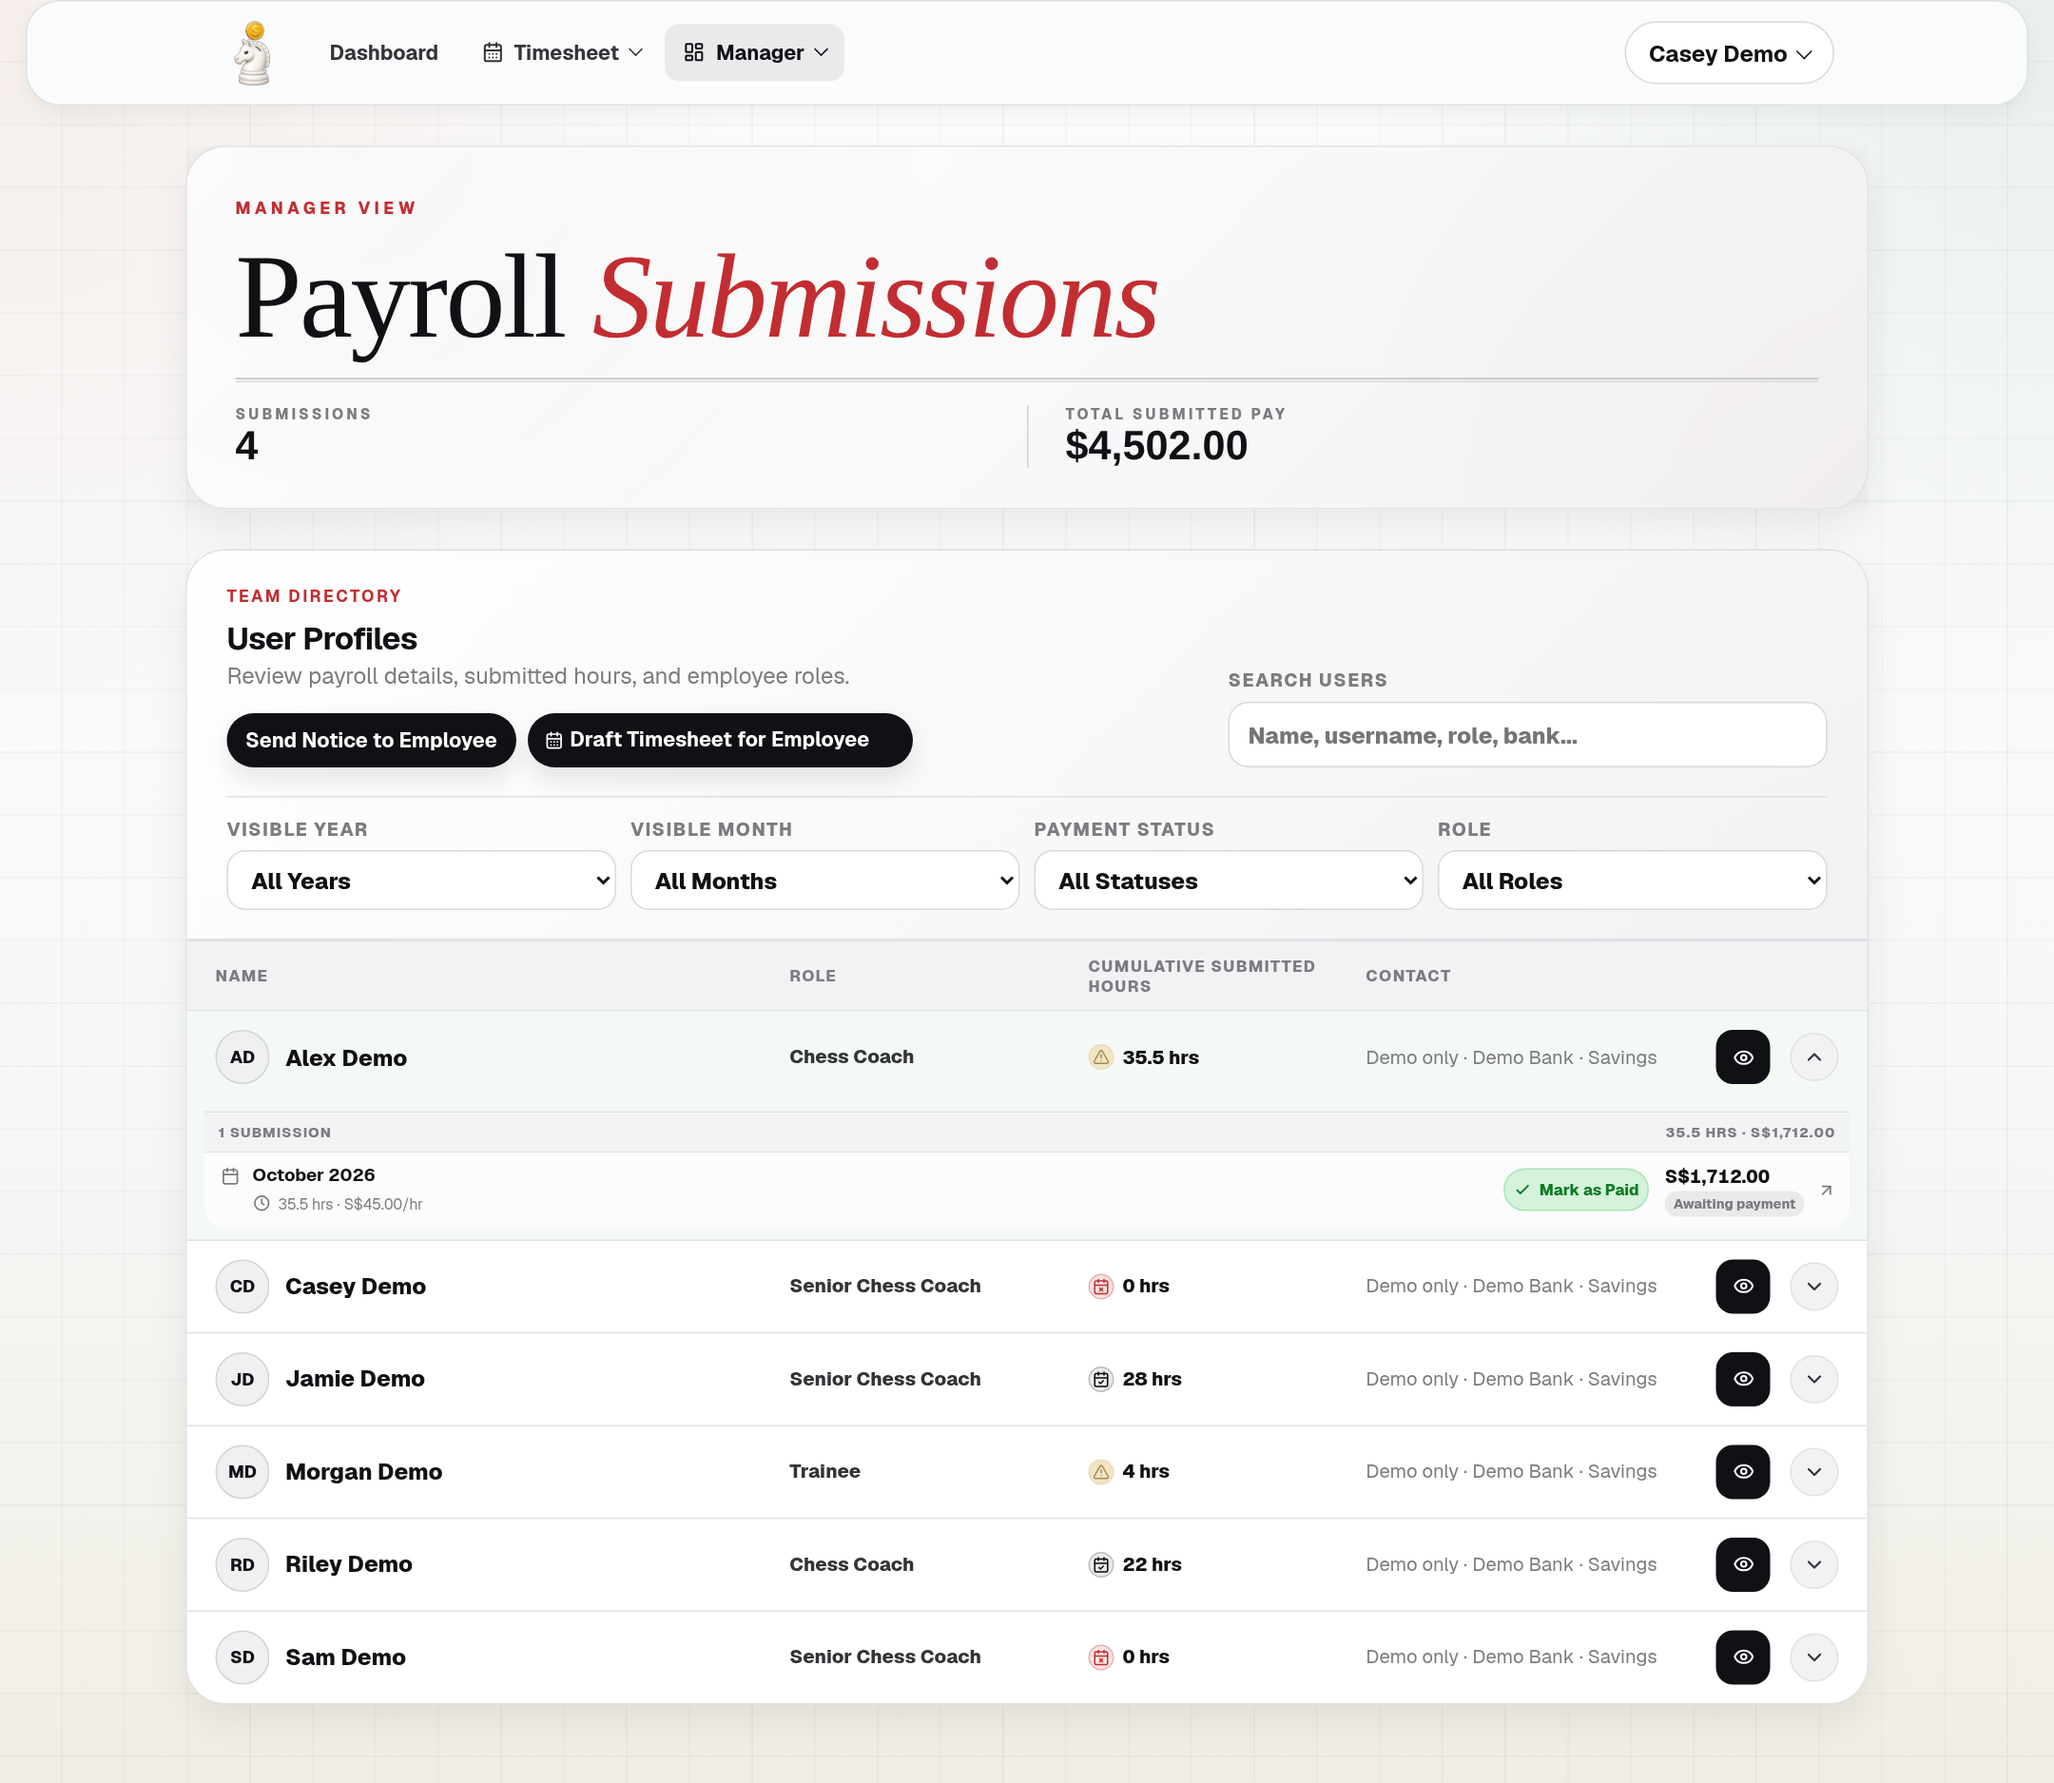
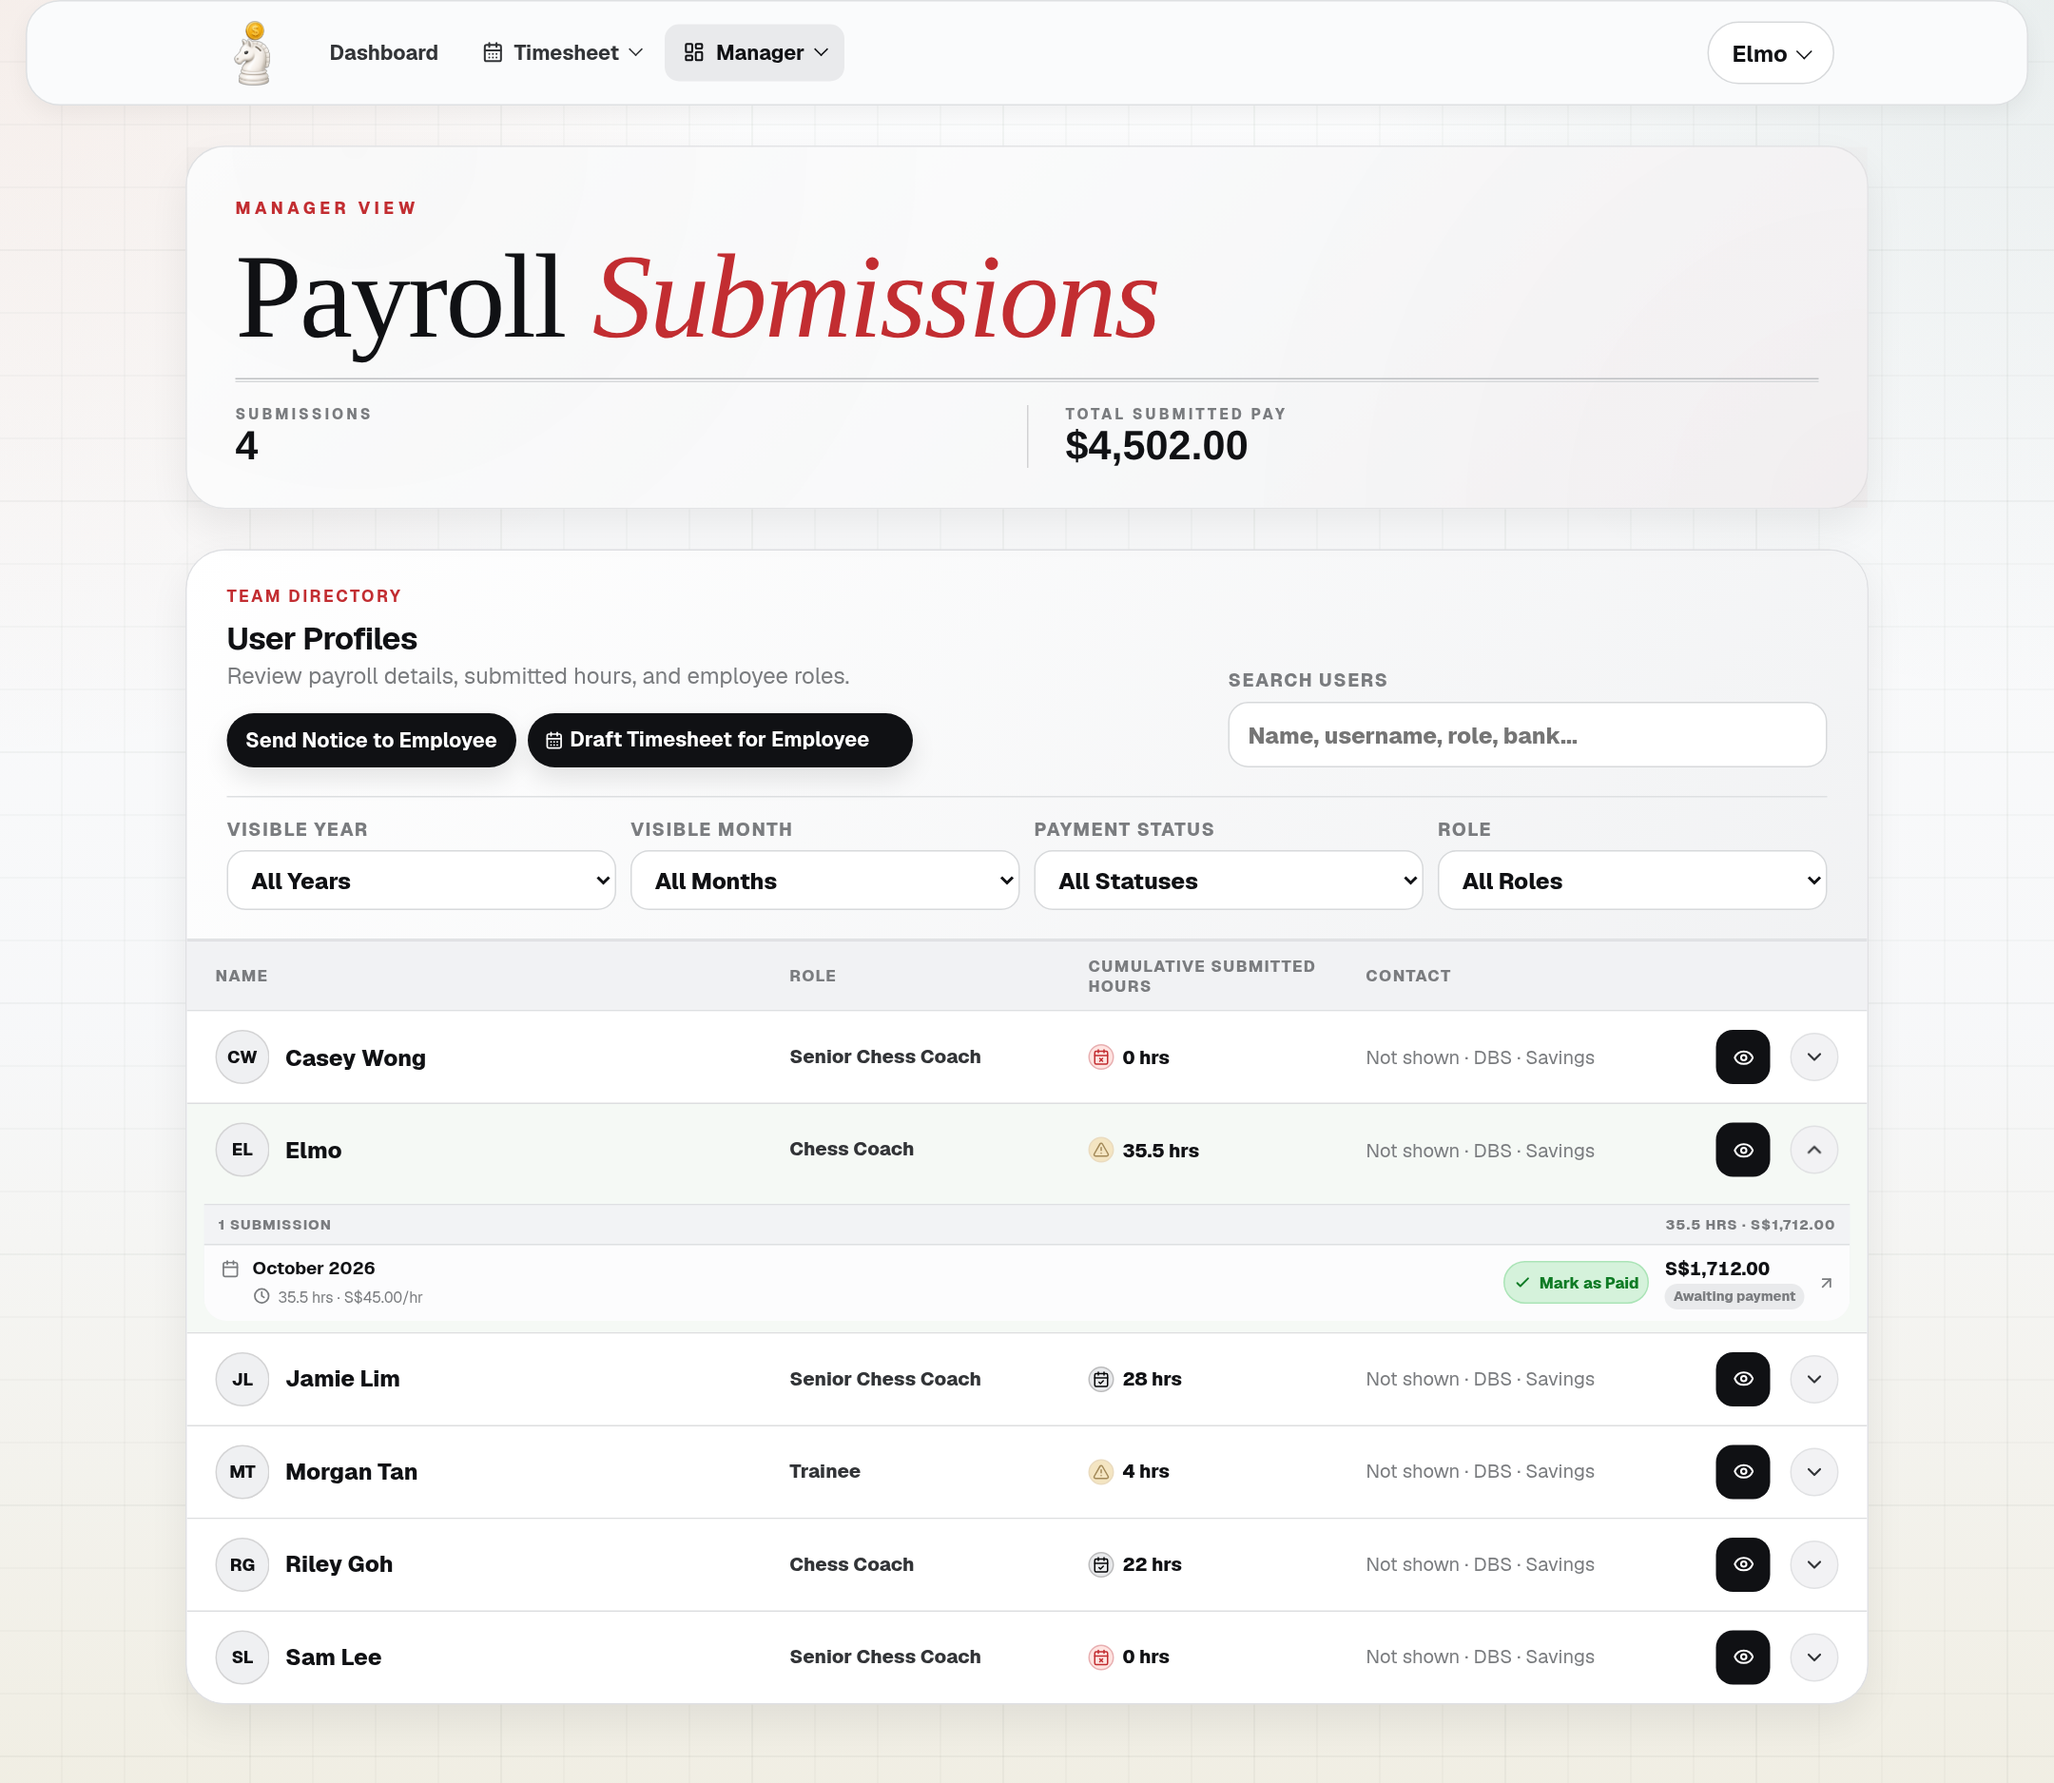
Use real school names and Elmo in screenshots

diff --git a/README.md b/README.md
@@ -12,7 +12,7 @@ A web app for Chess Grande timesheets and payroll. It replaces the monthly Excel
 
 ## Screenshots
 
-These screenshots show the current app with fictional demo data. Names, contact details, bank details, and pay amounts are examples.
+These screenshots use real Singapore school names, with Elmo as the main user. Staff details, schedules, and pay amounts are examples. Contact numbers and bank accounts are hidden.
 
 ### Employee timesheet
 
@@ -24,13 +24,13 @@ View the month, add entries, and group work by activity.
 
 Check hours, pay, and profile details before submitting.
 
-![Employee pay review with demo hours, calculated pay, and payroll profile](assets/readme/pay-review.png)
+![Elmo's pay review with hours, calculated pay, and payroll profile](assets/readme/pay-review.png)
 
 ### Manager dashboard
 
 Review employee submissions, filter payment status, and mark payroll as paid.
 
-![Manager dashboard with demo employees and an expanded payroll submission](assets/readme/manager-dashboard.png)
+![Manager dashboard with employee profiles and Elmo's expanded payroll submission](assets/readme/manager-dashboard.png)
 
 ### Webadmin directory
 
